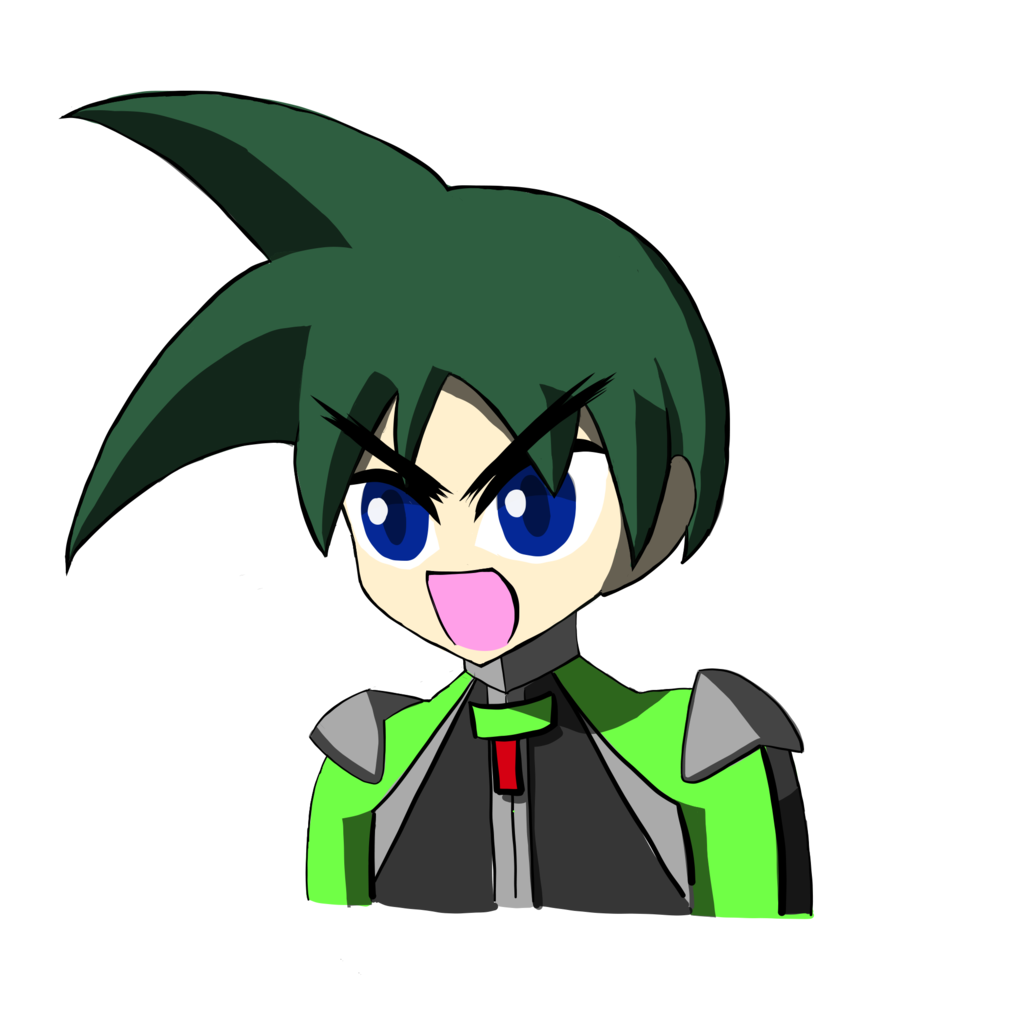
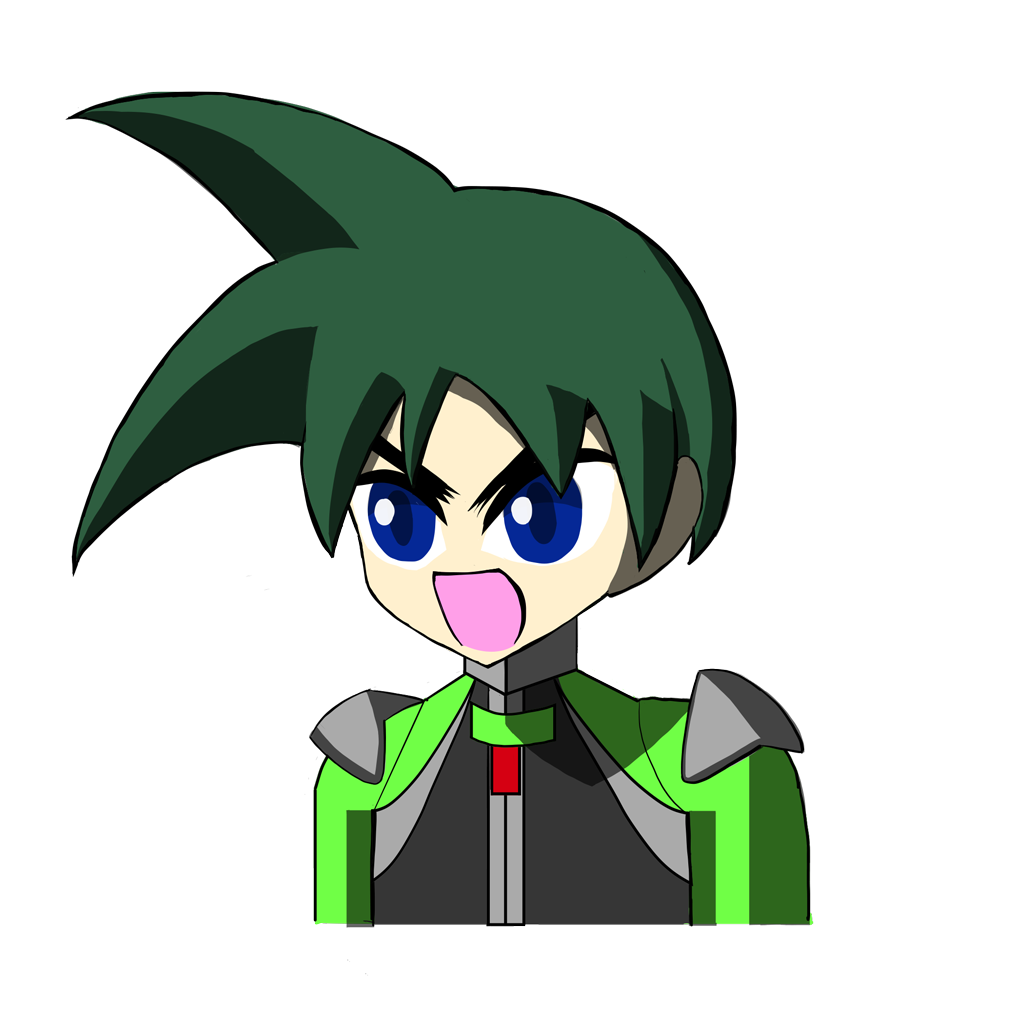
パイロットカットインを調整した

diff --git a/src/js/game-object/cut-in/gai/view/player-gai-view.js b/src/js/game-object/cut-in/gai/view/player-gai-view.js
@@ -13,7 +13,7 @@ import {HUD_CUT_IN_ZNIDEX} from "../../../../zindex/hud-zindex";
 /**
  * メッシュの大きさ
  */
-export const MESH_SIZE = 720;
+export const MESH_SIZE = 650;
 
 /**
  * アニメーション数

diff --git a/src/js/game-object/cut-in/shinya/view/player-shinya-view.js b/src/js/game-object/cut-in/shinya/view/player-shinya-view.js
@@ -13,7 +13,7 @@ import {HUD_CUT_IN_ZNIDEX} from "../../../../zindex/hud-zindex";
 /**
  * メッシュの大きさ
  */
-export const MESH_SIZE = 700;
+export const MESH_SIZE = 650;
 
 /**
  * アニメーション数
